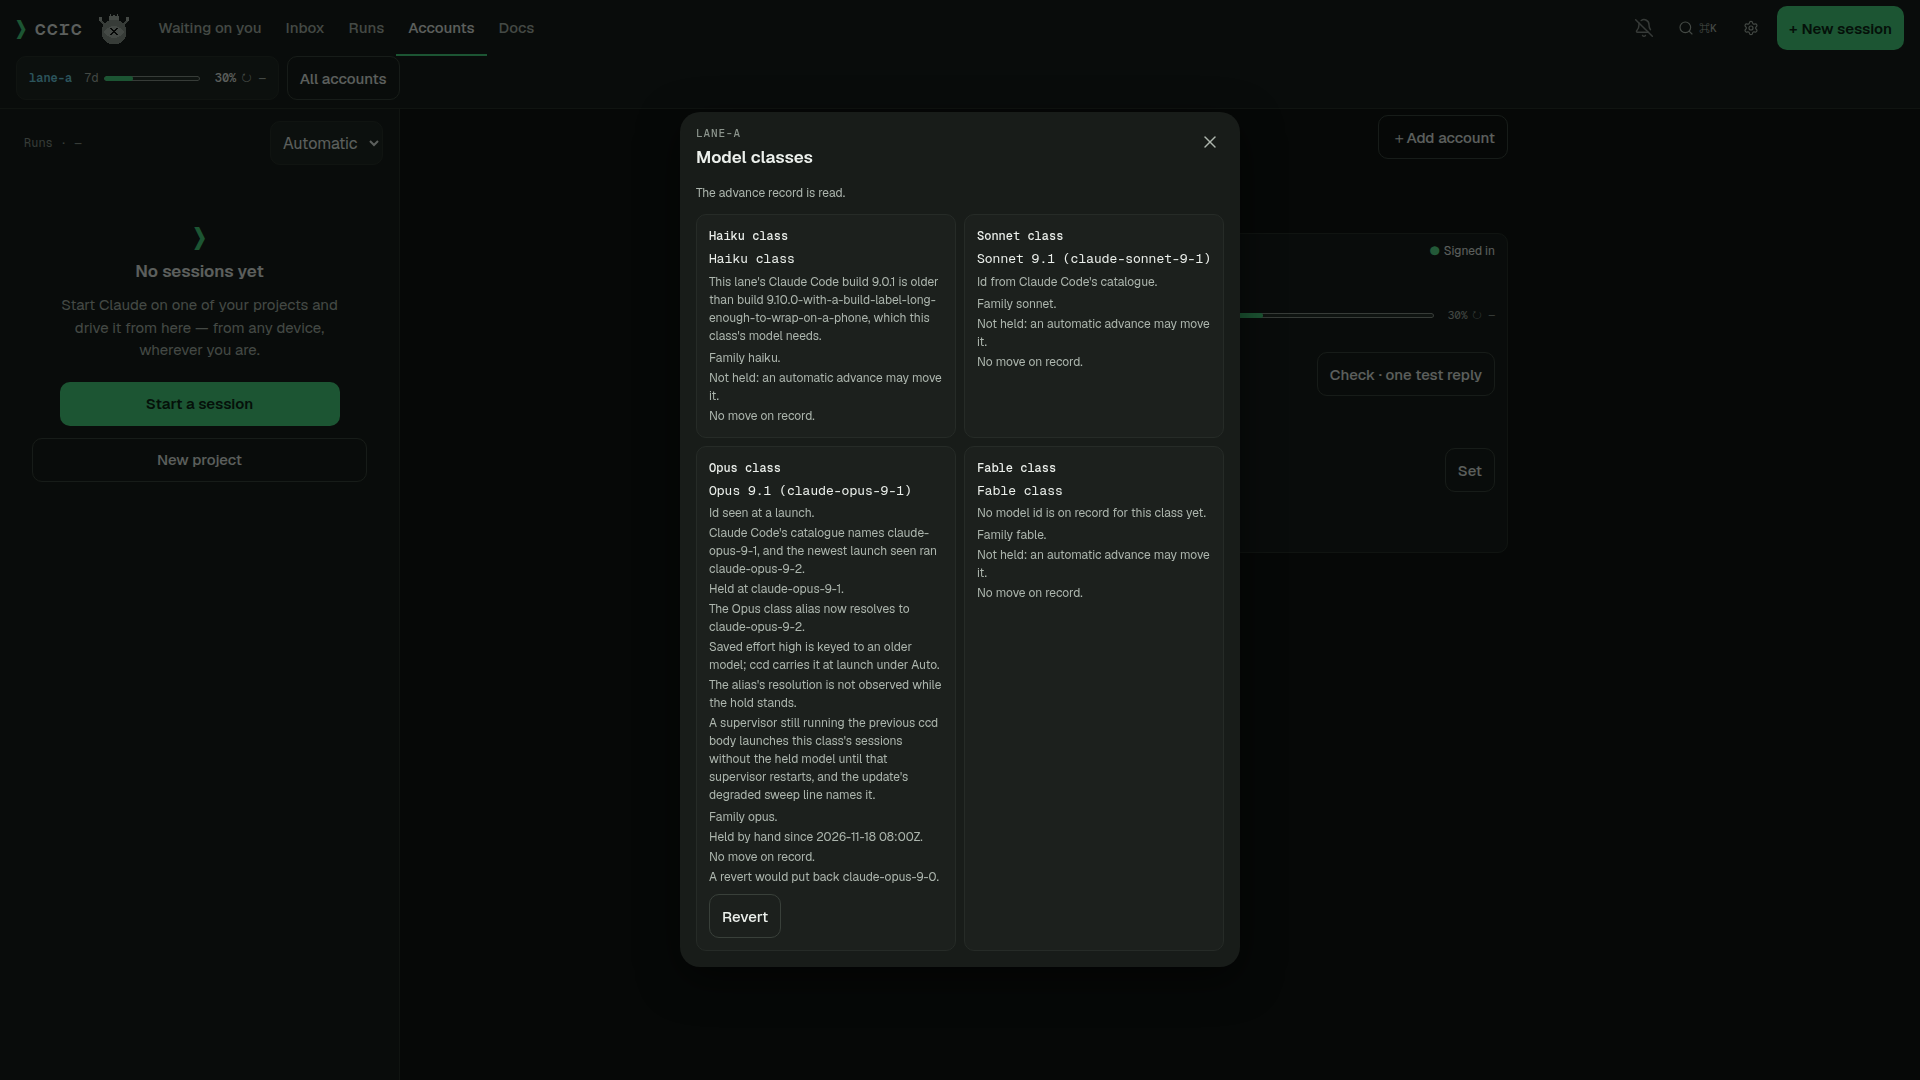
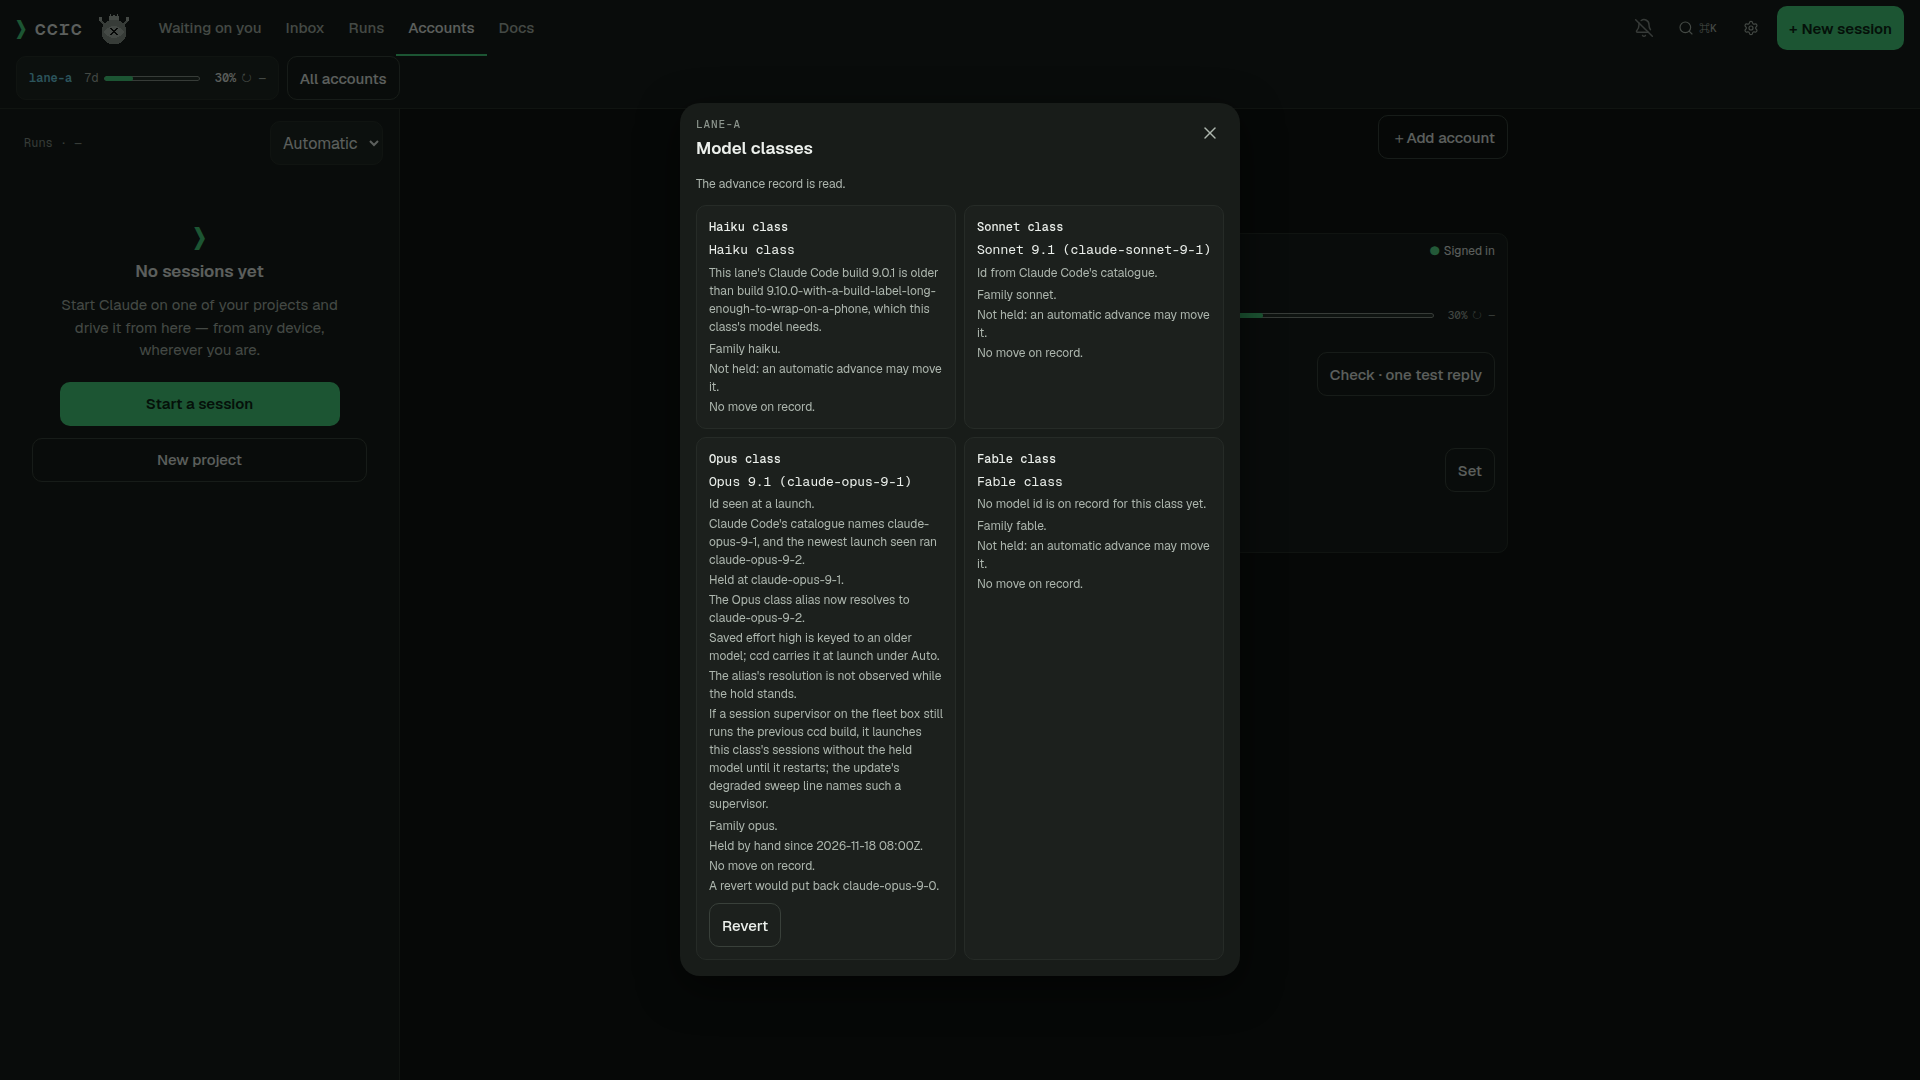
fix(models): wave A4 review: an older op's Anthropic lane reads absent, no Hold decided in L1, refusals state facts
A server newer than the fleet box's op reads an Anthropic lane whose op prints
the aliases file but no labels as absent, as before, never unreadable. A held
class no longer carries its alias id's build need. The sheet's no-Hold rule on
an Anthropic lane lives in classActs; Revert's confirm there names no Release;
the four Anthropic hold refusals state facts and ask no hand act; the supervisor
sentence is conditional. Screenshots refreshed; the task note records the review.

Changed region(s): [[0.3438, 0.1222, 0.625, 0.8861]]

diff --git a/pwa/src/accounts/modelsSheetWords.ts b/pwa/src/accounts/modelsSheetWords.ts
@@ -83,10 +83,10 @@ export const VERB_CODE_WORDS: Readonly<Record<string, string>> = {
   'unroutable-lane': 'The lane\'s files cannot be rendered for routing, so the model was not moved. A hold may already be in place: the row shows what the lane holds now.',
   'no-such-account': 'The fleet box has no account by this name.',
   'anthropic-lane': 'This is an Anthropic lane: its classes are the client\'s own and carry no registry, so there is nothing to hold or revert.',
-  'alias-source-absent': 'The fleet box has no model on record for this class\'s alias yet, or only one this lane\'s Claude Code cannot launch, so there is no model to hold. Start one session on this lane, then try again.',
-  'aliases-file-unreadable': 'The lane\'s aliases file cannot be read on the fleet box, so the class\'s current model is unknown and was not held. Move that file aside on the fleet box.',
-  'aliases-file-invalid': 'The lane\'s aliases file is not one the fleet box reads, so the class\'s current model is unknown and was not held. Move that file aside on the fleet box.',
-  'settings-overrides-hold': 'This lane\'s own settings name a model for this class, and they win over a hold, so the hold could not reach a launch. Remove that setting on the fleet box, then hold again.',
+  'alias-source-absent': 'The fleet box has no model on record for this class\'s alias yet, or only one this lane\'s Claude Code cannot launch, so there is no model to hold. The next session started on this lane, or the next hourly refresh, records one.',
+  'aliases-file-unreadable': 'The lane\'s aliases file cannot be read on the fleet box, so the class\'s current model is unknown and was not held. Doctor names the file.',
+  'aliases-file-invalid': 'The lane\'s aliases file is not one the fleet box reads, so the class\'s current model is unknown and was not held. Doctor names the file.',
+  'settings-overrides-hold': 'This lane\'s own settings name a model for this class, and they win over a hold, so the hold could not reach a launch and was not made.',
   'registry-unwritable': 'The lane\'s class registry could not be written on the fleet box. A revert\'s hold may already be in place: the row shows what the lane holds now.',
   'advance-unwritable': 'The lane\'s advance file could not be written on the fleet box. The row shows what the lane holds now.',
   'settings-unwritable': 'The lane\'s settings could not be rendered or written on the fleet box. A revert\'s hold, and its move of the model, may already be in place: the row shows what the lane holds now.',
@@ -247,7 +247,7 @@ export const anthropicModelLine = (cls: ModelClass, model: string | null, label:
 /** D-8820's residual, said once on a held Anthropic class: a supervisor kept on the previous ccd body is the one place a
  *  hold does not reach a launch. A fact, not an instruction. */
 export const SUPERVISOR_RESIDUAL_WORDS =
-  'A supervisor still running the previous ccd body launches this class\'s sessions without the held model until that supervisor restarts, and the update\'s degraded sweep line names it.';
+  'If a session supervisor on the fleet box still runs the previous ccd build, it launches this class\'s sessions without the held model until it restarts; the update\'s degraded sweep line names such a supervisor.';
 
 export type AnthropicFactKind =
   | 'source' | 'disagree' | 'held' | 'alias' | 'orphaned' | 'no-id' | 'unlaunchable' | 'unobserved' | 'supervisor';
@@ -333,10 +333,12 @@ export interface ClassActs {
   readonly hold: 'hold' | 'release' | null;
   readonly revert: boolean;
 }
-export function classActs(advance: LaneAdvanceRead | undefined, cls: ModelClass): ClassActs {
+export function classActs(advance: LaneAdvanceRead | undefined, cls: ModelClass, anthropic = false): ClassActs {
   const adv: LaneClassAdvance | null = advance?.state === 'ok' ? advance.classes?.[cls] ?? null : null;
   const held = adv?.hold != null;
-  const holdKnown = adv !== null || advance?.state === 'absent';
+  // An Anthropic lane offers no Hold or Release (the coordinator's ruling of 2026-11-22, slug no-hold-release-controls): its
+  // classes always advance, and a Revert is the one act that holds one.
+  const holdKnown = !anthropic && (adv !== null || advance?.state === 'absent');
   return { adv, held, hold: !holdKnown ? null : held ? 'release' : 'hold', revert: adv?.revertable === true && adv.previous !== null };
 }
 /** Whether a Revert of `cls` is still on offer on the CURRENT read: the confirm asks it when it opens, while it stands and
@@ -354,9 +356,13 @@ export const holdAriaLabel = (action: 'hold' | 'release', cls: ModelClass): stri
 export const revertAriaLabel = (cls: ModelClass): string => `Revert the ${cls} class`;
 export const revertTitle = (cls: ModelClass): string => `Revert the ${cls} class?`;
 /** `previous` is the one on record: a revert whose class has none is not offered, so there is no sentence for it (F13). */
-export function revertConsequence(lane: string, cls: ModelClass, current: string | null, previous: Previous): string[] {
+export function revertConsequence(
+  lane: string, cls: ModelClass, current: string | null, previous: Previous, anthropic = false,
+): string[] {
+  // An Anthropic lane's sheet has no Release, so its sentence names none.
+  const until = anthropic ? '' : ' until you release it';
   return [
-    `Put back ${previous.model ?? 'an empty class'} and hold ${cls} on ${lane}, so no automatic advance moves it until you release it.`,
+    `Put back ${previous.model ?? 'an empty class'} and hold ${cls} on ${lane}, so no automatic advance moves it${until}.`,
     `As last read, that replaces ${current ?? 'an empty class'}.`,
     MODELS_CONFIRM_SESSIONS,
   ];

diff --git a/pwa/test/models-sheet-words.test.ts b/pwa/test/models-sheet-words.test.ts
@@ -321,8 +321,8 @@ describe('anthropicFacts: the lines an Anthropic class card carries', () => {
     const held = adv({ hold: { at: '2026-11-18T08:00:00Z', by: 'hand', model: 'claude-opus-9-1' } });
     expect(textOf(cls(), 'supervisor', held)).toBe(SUPERVISOR_RESIDUAL_WORDS);
     expect(kinds(cls(), adv())).not.toContain('supervisor');
-    expect(SUPERVISOR_RESIDUAL_WORDS).toMatch(/supervisor still running the previous ccd body/i);
-    expect(SUPERVISOR_RESIDUAL_WORDS).toMatch(/without the held model until that supervisor restarts/i);
+    expect(SUPERVISOR_RESIDUAL_WORDS).toMatch(/supervisor on the fleet box still runs the previous ccd build/i);
+    expect(SUPERVISOR_RESIDUAL_WORDS).toMatch(/without the held model until it restarts/i);
     expect(SUPERVISOR_RESIDUAL_WORDS).toMatch(/degraded/i);
     expect(SUPERVISOR_RESIDUAL_WORDS).not.toMatch(/\b(run|restart|move|remove|start)\b[^.]*\b(it|them|the)\b[^.]*\.$/i);
     expect(SUPERVISOR_RESIDUAL_WORDS.match(/\./g)).toHaveLength(1);
@@ -339,5 +339,32 @@ describe('the Models act is offered by the lane kind (wave 9, Task A4.3)', () =>
     expect(modelsSheetAnthropic({ telemetry: 'codex' })).toBe(false);
     expect(modelsActOffered({ kind: 'key', telemetry: 'openrouter' })).toBe(false);
     expect(modelsActOffered(undefined)).toBe(false);
+  });
+});
+
+describe('an Anthropic lane: no Hold, a Revert that names no Release, refusals that state facts (wave 9 review)', () => {
+  const ok = (opus: Partial<LaneClassAdvance>): Parameters<typeof classActs>[0] => ({
+    state: 'ok', detail: null, pending: null,
+    classes: Object.fromEntries((['fable', 'opus', 'sonnet', 'haiku'] as const).map((c) => [c, {
+      family: c, hold: null, previous: null, revertable: false, lastMove: null, ...(c === 'opus' ? opus : {}),
+    }])) as never,
+  });
+  it('classActs offers no Hold or Release on an Anthropic lane, and keeps Revert', () => {
+    expect(classActs(ok({}), 'opus', true)).toMatchObject({ hold: null, held: false, revert: false });
+    expect(classActs(ok({ hold: { at: 'x', by: 'hand' } }), 'opus', true)).toMatchObject({ hold: null, held: true });
+    expect(classActs(ok({ revertable: true, previous: { model: 'm-before', effort: null } }), 'opus', true)).toMatchObject({ hold: null, revert: true });
+    expect(classActs({ state: 'absent', detail: null, pending: null, classes: null }, 'opus', true)).toMatchObject({ hold: null });
+    expect(classActs(ok({}), 'opus')).toMatchObject({ hold: 'hold' });
+  });
+  it('an Anthropic Revert names no Release', () => {
+    const prev = { model: 'm-before', effort: null };
+    expect(revertConsequence('lane-a', 'opus', 'm-now', prev, true)[0]).not.toMatch(/release/i);
+    expect(revertConsequence('lane-a', 'opus', 'm-now', prev)[0]).toMatch(/until you release it/);
+  });
+  it('the Anthropic hold refusals ask no hand act', () => {
+    for (const code of ['alias-source-absent', 'aliases-file-unreadable', 'aliases-file-invalid', 'settings-overrides-hold'] as const) {
+      const text = VERB_CODE_WORDS[code];
+      expect(text, code).not.toMatch(/\b(Move|Remove|Start|Run|Restart)\b|then hold again|try again/);
+    }
   });
 });

diff --git a/server/test/lane-models-op.test.ts b/server/test/lane-models-op.test.ts
@@ -632,6 +632,17 @@ describe('an Anthropic lane through the real show (model-class Anthropic arm A4.
     expect(got.classes[C3]).toMatchObject({ model: null });
   });
 
+  it('a held class does not carry its alias id\'s build need', async () => {
+    // The alias moved to an id this lane's build cannot launch, while the class is held on a launchable one: the class's
+    // sessions launch on the held id, so the wire says nothing of the alias's build need, and the alias's id rides `aliasId`.
+    const got = await readOf(plant(aliasesJson({
+      [C0]: kept(X2, { unobserved: true, unlaunchable: { needs: '9.9.9', laneVersion: '2.0.0' }, row: catRow(X2, { minVersion: '9.9.9' }),
+        heldRow: catRow(X1, { label: 'Held' }) }),
+    }), { [C0]: X1 }));
+    expect(got.classes[C0]).toMatchObject({ model: X1, label: 'Held', aliasId: X2 });
+    expect(got.classes[C0]).not.toHaveProperty('unlaunchable');
+  });
+
   it('an unobserved class carries unobserved', async () => {
     const got = await readOf(plant(aliasesJson({ [C0]: kept(X1, { unobserved: true }), [C1]: kept(S1) })));
     expect(got.classes[C0].unobserved).toBe(true);
@@ -678,8 +689,15 @@ describe('readLaneModels over an Anthropic lane\'s show body (model-class Anthro
     expect((await read({})).kind).toBe('read');
   });
 
-  it('a parsed aliases file with no labels, a bad class row or an unreadable advance reads unreadable', async () => {
-    expect(await read({ labels: null })).toEqual({ kind: 'unreadable' });
+  it('an older op that sends the aliases file but no labels reads the lane absent, as before', async () => {
+    // An op from before Task A4.1 prints a parsed aliases file beside `labels: null` once the hourly refresh has written
+    // one; a server rolled out first reads that lane as it always did, never as unreadable.
+    expect(await read({ labels: null })).toEqual({ kind: 'absent', laneKind: 'anthropic' });
+    expect(await read({ labels: undefined })).toEqual({ kind: 'absent', laneKind: 'anthropic' });
+  });
+
+  it('a parsed aliases file with off-grammar labels, a bad class row or an unreadable advance reads unreadable', async () => {
+    expect(await read({ labels: 'x' })).toEqual({ kind: 'unreadable' });
     expect(await read({ labels: { ...ROWS, [C3]: { model: 7 } } })).toEqual({ kind: 'unreadable' });
     expect(await read({ labels: { ...ROWS, [C3]: undefined } })).toEqual({ kind: 'unreadable' });
     expect(await read({ aliases: 'x' })).toEqual({ kind: 'unreadable' });

diff --git a/pwa/src/accounts/ModelsSheet.tsx b/pwa/src/accounts/ModelsSheet.tsx
@@ -221,7 +221,7 @@ export function ModelsSheet({ lane, anthropic = false, open, onClose, offline, a
           <div className="acct-models-list">
             {CLASSES.map((cls) => {
               const c = shown.classes[cls];
-              const { adv, held, hold, revert } = classActs(advance, cls);
+              const { adv, held, hold, revert } = classActs(advance, cls, anthropic);
               const mine = busy === cls;
               const n = notes[cls];
               return (
@@ -244,9 +244,9 @@ export function ModelsSheet({ lane, anthropic = false, open, onClose, offline, a
                       {previousWords(adv.previous) !== null && <p>{previousWords(adv.previous)}</p>}
                     </div>
                   )}
-                  {((hold !== null && !anthropic) || revert) && (
+                  {(hold !== null || revert) && (
                     <div className="acct-models-acts">
-                      {hold !== null && !anthropic && (
+                      {hold !== null && (
                         <ModelsAct
                           label={hold === 'release' ? 'Release' : 'Hold'} name={holdAriaLabel(hold, cls)} disabled={!mayChange} busy={mine}
                           onTap={() => { void run(hold, cls); }}
@@ -272,7 +272,7 @@ export function ModelsSheet({ lane, anthropic = false, open, onClose, offline, a
           open
           onClose={() => setConfirming(null)}
           title={revertTitle(confirming)}
-          consequence={revertConsequence(lane, confirming, confirmRead.classes[confirming].model, confirmPrevious)}
+          consequence={revertConsequence(lane, confirming, confirmRead.classes[confirming].model, confirmPrevious, anthropic)}
           confirmLabel={MODELS_REVERT_CONFIRM}
           onConfirm={() => confirmRevert(confirming)}
         />

diff --git a/server/src/laneModels.ts b/server/src/laneModels.ts
@@ -129,7 +129,8 @@ function readShowAnswer(lane: string, code: number, stdout: string): LaneModelsR
 }
 
 /** An Anthropic lane's `show` (no registry; model-class Anthropic arm A4.1): three answers for its aliases file, never one.
- *  No `aliases` key (an older op) or `{state: 'absent'}` is `absent`, as before; `unreadable` and `invalid` are the lane's
+ *  No `aliases` key (an older op), `{state: 'absent'}`, or a parsed file beside no labels (an op older than A4.1) is
+ *  `absent`, as before; `unreadable` and `invalid` are the lane's
  *  `unreadable`, the existing arm; and a parsed aliases file (no `state` key) is a lane READ, whose classes are the op's
  *  `labels` (built from that file) beside the advance report. A parsed file whose labels or advance are off the grammar is
  *  `unreadable` too: a half view is never returned. */
@@ -140,6 +141,9 @@ function readAnthropicShow(raw: Record<string, unknown>): LaneModelsRead {
   if (aliases.state !== undefined) {
     return aliases.state === 'absent' ? { kind: 'absent', laneKind: 'anthropic' } : { kind: 'unreadable' };
   }
+  // An op from before Task A4.1 prints the parsed aliases file the hourly refresh wrote, but `labels: null` for a lane with no
+  // registry: that lane reads as it always did, so a server rolled out before the fleet box never turns it unreadable.
+  if (raw.labels === null || raw.labels === undefined) return { kind: 'absent', laneKind: 'anthropic' };
   if (!isObj(raw.labels)) return { kind: 'unreadable' };
   const classes = {} as Record<ModelClass, LaneClassModel>;
   for (const c of CLASSES) {

diff --git a/docs/superpowers/programs/model-class-advance/a4-anthropic-console.md b/docs/superpowers/programs/model-class-advance/a4-anthropic-console.md
@@ -98,12 +98,43 @@ At each width nothing scrolls sideways, nothing a card holds leaves it, and the 
   aliases state words keep three answers" in `server/test/lane-models-op.test.ts`.
 - **New PWA, older server.** The class rows come without the new fields and read exactly as today. This pair is tested:
   "an older server's answer reads as today" in `pwa/test/models.test.ts`.
-- **Older PWA, new server.** The older PWA ignores the new fields. Its sheet opens on Codex lanes only, and its picker
-  keys Anthropic rows on ids, which no row lit before either.
+- **New server, op older than this wave.** An older op prints the parsed aliases file beside `labels: null`; the server
+  reads that lane `absent` as before, never `unreadable`, so a server rolled out first changes nothing ("an older op
+  that sends the aliases file but no labels reads the lane absent, as before").
+- **Older PWA, new server, until the page reloads.** The older PWA ignores the new fields and its sheet opens on Codex
+  lanes only. Its picker now gets an Anthropic lane as `read`, keys those rows on ids and drops a class with no id, so
+  the active row is not lit until the console reloads the PWA the server now serves. This pair is untested.
 - **Older server, new fleet box (F15).** A line naming several lanes is read as not a model line, so that move gets its
   banner and one log line but no phone push until the server box is updated. A single-lane move is unchanged.
 
+## What the review pass changed
+
+Three per-task reviewers read the build before the push. Nothing was blocking. These were fixed in the same push, each
+test red first or proved by a mutation that turned it red:
+
+- **Older op, newer server.** A parsed aliases file beside `labels: null` reads `absent`, not `unreadable`.
+- **Unlaunchable alias on a held class.** A held class no longer carries its alias id's build need (`unlaunchable`). It
+  launches on the held id, and `aliasId` names the alias's id.
+- **No Hold or Release, decided in L1.** `classActs` decides it from the lane kind, so a missing flag can no longer
+  draw them.
+- **Revert's confirm.** On an Anthropic lane it names no Release.
+- **The four Anthropic hold refusals** (D-8819's sentences) now state facts and ask no hand act.
+- **The supervisor sentence** is conditional ("If a session supervisor … still runs the previous ccd build …").
+
 ## Residuals (no ask; the coordinator's to place)
+
+- **No screen-level test of the Models act on an Anthropic lane.** The Accounts screen's test file is under another
+  worker's claim. What covers the gate instead:
+  - the L1 predicate's tests (`modelsActOffered`, `modelsSheetAnthropic`);
+  - the new browser test, which opens the sheet from an Anthropic lane's fold. It runs in the merge queue, not on a
+    pull request.
+- **The server's over-cap log detail.** It still names a failure line with long ids as the one shape over the cap, and a
+  moved line naming many lanes can pass the cap now too. `server/src/server.ts` was edited under another worker's
+  consent for the two F10 hunks only, so that third wording waits.
+- **Push budget.** The grouped push runs after the last Anthropic lane, on that lane's tail reserve: about 44 s, and 13 s
+  per push. A refresh with four or more different moves can skip the later pushes, though their banners still go out.
+- **Stale plan prose.** D-8751 and Task A2.4 in the plan still describe one push line per lane per move. F15 changes
+  that, and the plan is the coordinator's to edit.
 
 - **Revert's confirm and the absent Release.** Revert's confirm still says the class is held "until you release it",
   and an Anthropic lane's sheet has no Release. The ticket `revert-holds-until-newer` changes Revert's hold for both
